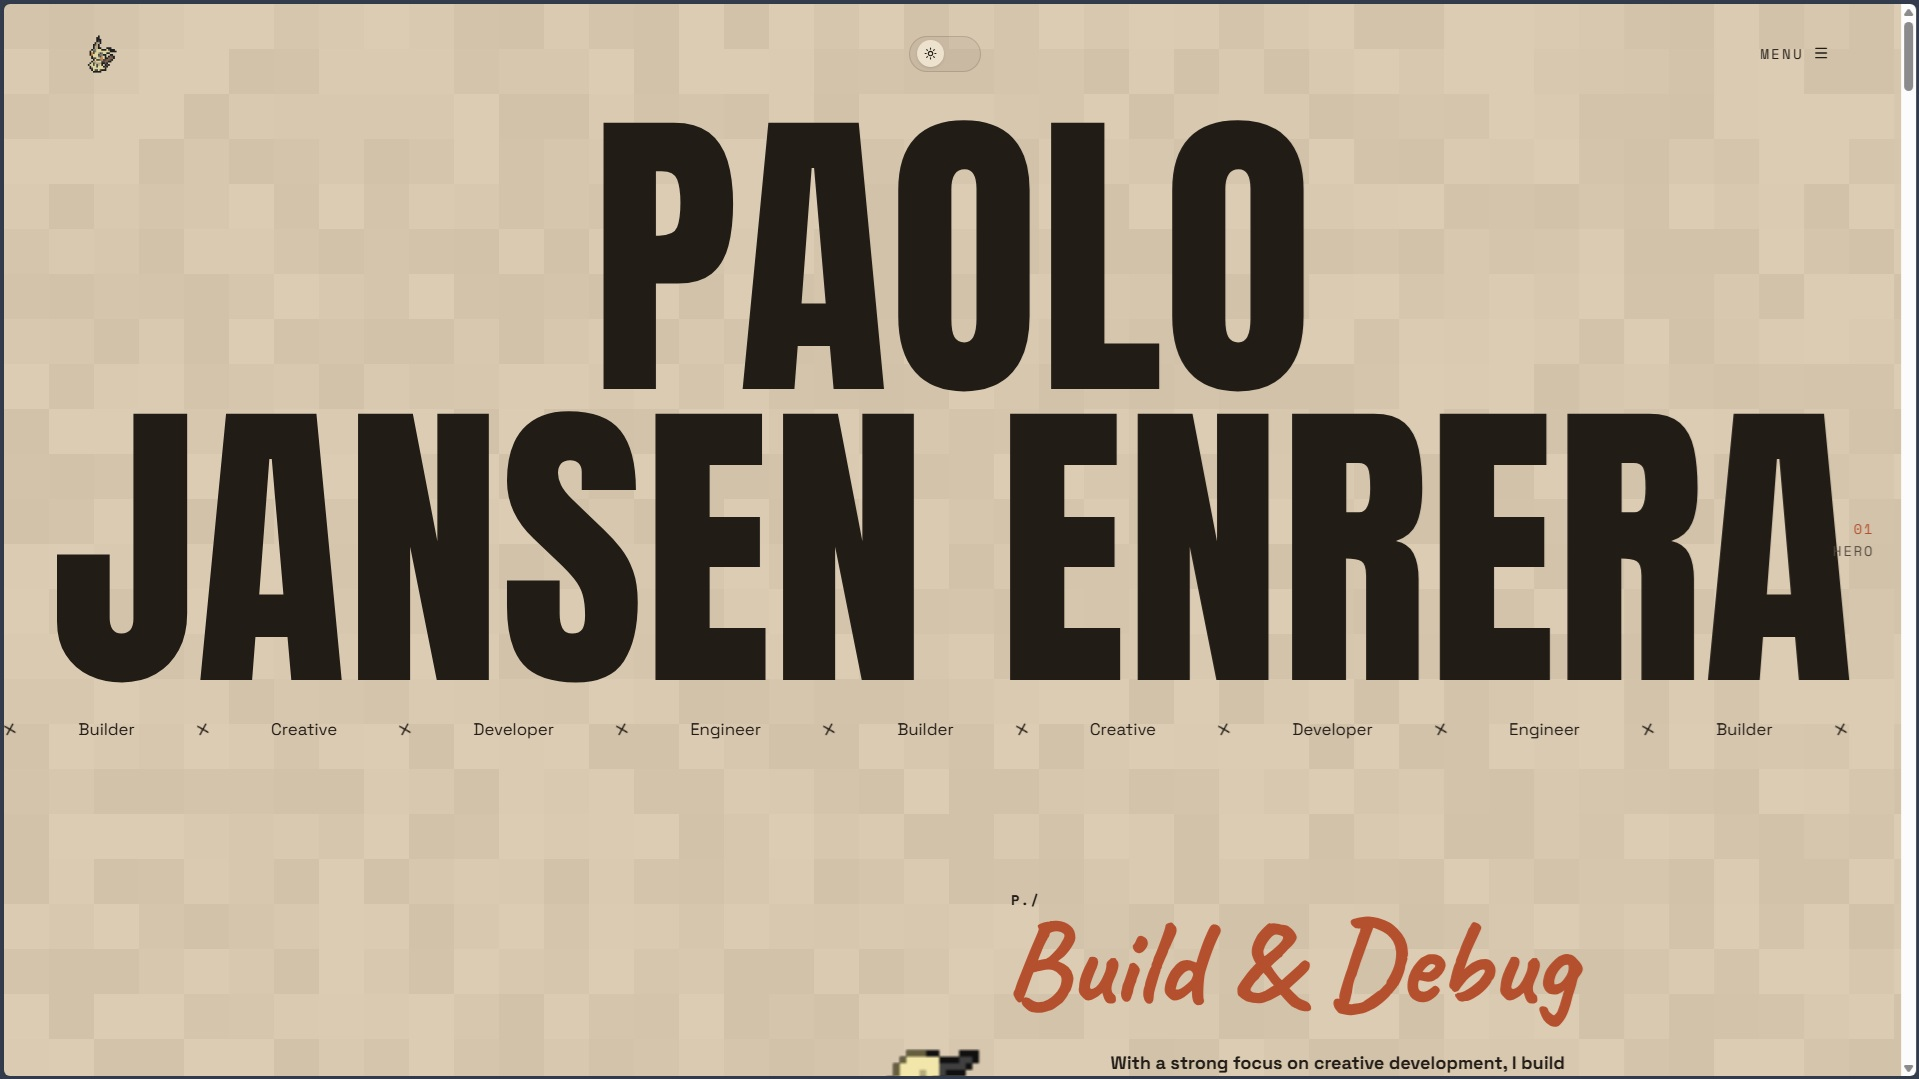
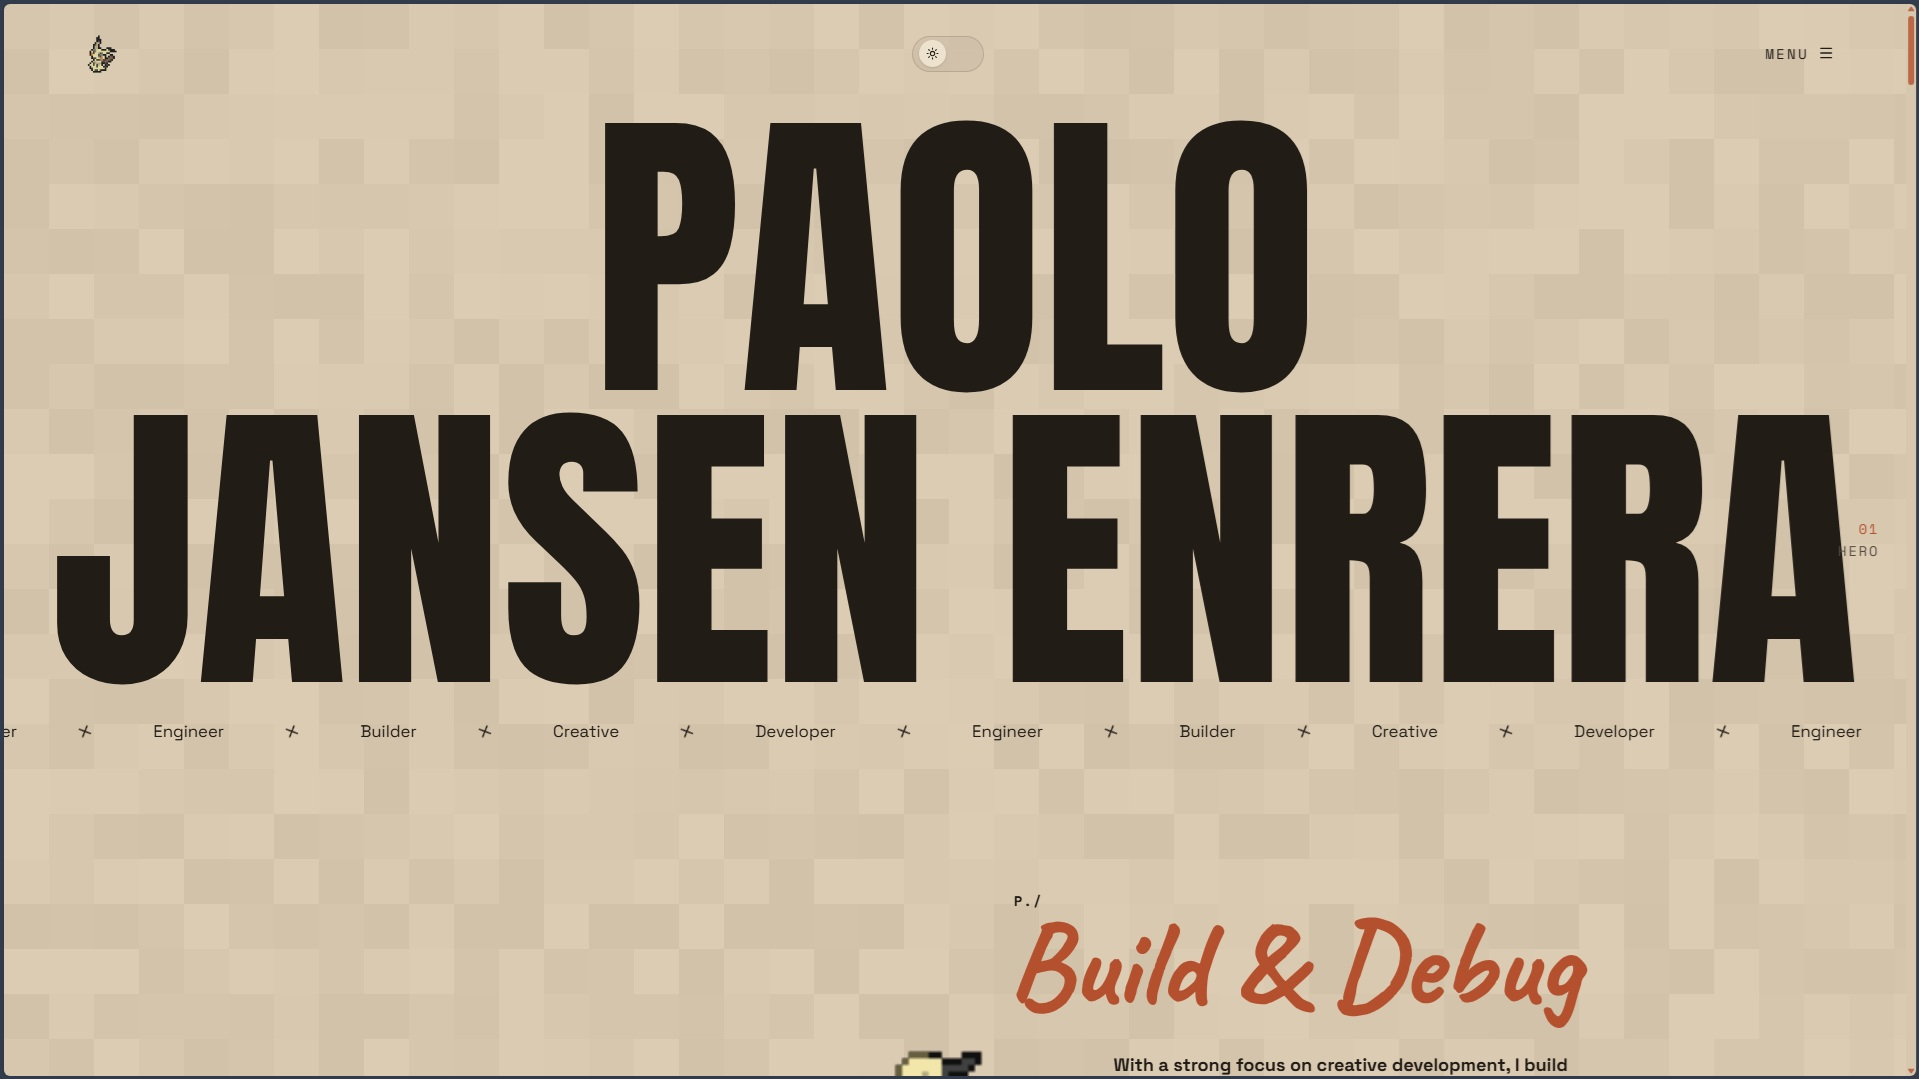
feat: styled scrollbar, curtain menu transition, contain-fit project modal images
- Custom scrollbar (thin, accent-colored thumb, transparent track) matching
  the jasminemaduafokwa.com reference
- NavOverlay: two-layer curtain reveal on menu open (accent flash then bg
  panel, dropping in from top-right); close now plays the exact reverse
  order (bg retreats first, accent last) instead of leaving link text
  hanging mid-close
- Menu link hover: straight accent strike-through + number/label gap widen,
  replacing the old thin underline
- Menu's Contact link now goes to the in-site /contact page instead of an
  external URL
- Project detail modal images now use object-contain and self-measure their
  aspect ratio on load, so the frame always hugs the real image with no
  cropping or leftover letterbox gap regardless of the source file's
  proportions (grid thumbnails keep object-cover)
- Swapped in updated Premium Portfolio.jpg

diff --git a/src/components/layout/NavOverlay.tsx b/src/components/layout/NavOverlay.tsx
@@ -19,6 +19,20 @@ interface NavOverlayProps {
 export function NavOverlay({ open, onClose, links }: NavOverlayProps) {
   const panelRef = useDialogBehavior(open, onClose);
 
+  const curtainEase = [0.76, 0, 0.24, 1] as const;
+  const rounded = { borderBottomLeftRadius: "40%", borderBottomRightRadius: "40%" };
+  const square = { borderBottomLeftRadius: "0%", borderBottomRightRadius: "0%" };
+  // Accent layer drops first, bg layer follows on top — closing reverses that order exactly:
+  // bg retreats first, accent retreats last.
+  const curtainAccent = {
+    closed: { scaleY: 0, ...rounded, transition: { duration: 0.5, ease: curtainEase, delay: 0.1 } },
+    open: { scaleY: 1, ...square, transition: { duration: 0.5, ease: curtainEase, delay: 0 } },
+  };
+  const curtainBg = {
+    closed: { scaleY: 0, ...rounded, transition: { duration: 0.5, ease: curtainEase, delay: 0 } },
+    open: { scaleY: 1, ...square, transition: { duration: 0.5, ease: curtainEase, delay: 0.1 } },
+  };
+
   return (
     <AnimatePresence>
       {open && (
@@ -28,11 +42,26 @@ export function NavOverlay({ open, onClose, links }: NavOverlayProps) {
           aria-modal="true"
           aria-label="Site navigation"
           tabIndex={-1}
-          initial={{ opacity: 0 }}
-          animate={{ opacity: 1 }}
-          exit={{ opacity: 0 }}
-          className="fixed inset-0 z-[60] flex flex-col bg-em-bg"
+          initial="closed"
+          animate="open"
+          exit="closed"
+          className="fixed inset-0 z-[60] flex flex-col overflow-hidden"
         >
+          {/* Curtain reveal: accent flash then bg panel drop in from the top-right;
+              closing plays the exact reverse order (bg retreats first, accent last). */}
+          <motion.div
+            aria-hidden
+            variants={curtainAccent}
+            style={{ transformOrigin: "top right" }}
+            className="absolute inset-0 bg-em-accent"
+          />
+          <motion.div
+            aria-hidden
+            variants={curtainBg}
+            style={{ transformOrigin: "top right" }}
+            className="absolute inset-0 bg-em-bg"
+          />
+
           <button
             type="button"
             aria-label="Close menu"
@@ -42,7 +71,11 @@ export function NavOverlay({ open, onClose, links }: NavOverlayProps) {
             <X size={26} />
           </button>
 
-          <nav className="flex flex-1 flex-col items-center justify-center gap-6">
+          <motion.nav
+            exit={{ opacity: 0, y: 16 }}
+            transition={{ duration: 0.2, ease: "easeIn" }}
+            className="flex flex-1 flex-col items-center justify-center gap-6"
+          >
             {links.map((link, i) => (
               <motion.a
                 key={link.href}
@@ -50,19 +83,25 @@ export function NavOverlay({ open, onClose, links }: NavOverlayProps) {
                 onClick={onClose}
                 initial={{ opacity: 0, y: 16 }}
                 animate={{ opacity: 1, y: 0 }}
-                transition={{ delay: 0.05 * i, duration: 0.4 }}
+                transition={{ delay: 0.4 + 0.05 * i, duration: 0.4 }}
                 className={cn(
-                  "font-display cursor-pointer text-5xl font-bold text-em-text transition-colors hover:text-em-accent md:text-7xl",
+                  "group flex cursor-pointer items-baseline gap-4 transition-[gap] duration-300 ease-out hover:gap-7",
                   i % 2 === 1 ? "md:translate-x-10" : "md:-translate-x-10"
                 )}
               >
-                <span className="mr-4 align-top font-mono text-base text-em-accent">
+                <span className="font-mono text-base text-em-accent">
                   {String(i + 1).padStart(2, "0")}
                 </span>
-                {link.label}
+                <span className="font-display relative text-5xl font-bold text-em-text transition-colors group-hover:text-em-accent md:text-7xl">
+                  {link.label}
+                  <span
+                    aria-hidden
+                    className="pointer-events-none absolute left-1/2 top-1/2 h-[6px] w-[110%] origin-center -translate-x-1/2 -translate-y-1/2 scale-x-0 rounded-full bg-em-accent transition-transform duration-500 ease-out group-hover:scale-x-100"
+                  />
+                </span>
               </motion.a>
             ))}
-          </nav>
+          </motion.nav>
         </motion.div>
       )}
     </AnimatePresence>

diff --git a/src/components/ui/ImagePlaceholder.tsx b/src/components/ui/ImagePlaceholder.tsx
@@ -1,3 +1,6 @@
+"use client";
+
+import { useState } from "react";
 import Image from "next/image";
 import { ImageIcon } from "lucide-react";
 import { cn } from "@/lib/utils";
@@ -8,6 +11,10 @@ interface ImagePlaceholderProps {
   aspectRatio?: string;
   label?: string;
   className?: string;
+  /** "cover" (default) crops to fill the box — used for grid thumbnails.
+   *  "contain" fits the whole image, resizing the box to the image's own
+   *  aspect ratio once it loads so there's no leftover letterbox gap. */
+  fit?: "cover" | "contain";
 }
 
 export function ImagePlaceholder({
@@ -16,11 +23,27 @@ export function ImagePlaceholder({
   aspectRatio = "16 / 10",
   label,
   className,
+  fit = "cover",
 }: ImagePlaceholderProps) {
+  const [naturalRatio, setNaturalRatio] = useState<string | null>(null);
+
   if (imageSrc) {
+    const ratio = fit === "contain" && naturalRatio ? naturalRatio : aspectRatio;
     return (
-      <div className={cn("relative overflow-hidden", className)} style={{ aspectRatio }}>
-        <Image src={imageSrc} alt={alt} fill className="object-cover" />
+      <div className={cn("relative overflow-hidden", className)} style={{ aspectRatio: ratio }}>
+        <Image
+          src={imageSrc}
+          alt={alt}
+          fill
+          className={fit === "contain" ? "object-contain" : "object-cover"}
+          onLoad={(e) => {
+            if (fit !== "contain") return;
+            const { naturalWidth, naturalHeight } = e.currentTarget;
+            if (naturalWidth && naturalHeight) {
+              setNaturalRatio(`${naturalWidth} / ${naturalHeight}`);
+            }
+          }}
+        />
       </div>
     );
   }

diff --git a/src/app/globals.css b/src/app/globals.css
@@ -116,6 +116,7 @@
   --em-invert-bg: #17130f;
   --em-invert-text: #f3ede2;
   --em-invert-muted: #b5aa98;
+  --em-scrollbar: var(--em-accent);
 }
 
 .dark {
@@ -153,6 +154,7 @@
   --em-bg: var(--em-invert-bg);
   --em-text: var(--em-invert-text);
   --em-text-muted: var(--em-invert-muted);
+  --em-scrollbar: var(--em-invert-text);
 }
 
 @layer base {
@@ -172,6 +174,21 @@
   .font-display {
     font-family: var(--font-display), system-ui, sans-serif;
   }
+}
+
+html {
+  scrollbar-width: thin;
+  scrollbar-color: color-mix(in srgb, var(--em-scrollbar) 80%, transparent) transparent;
+}
+
+::-webkit-scrollbar {
+  width: 3px;
+}
+::-webkit-scrollbar-track {
+  background-color: transparent;
+}
+::-webkit-scrollbar-thumb {
+  background-color: color-mix(in srgb, var(--em-scrollbar) 80%, transparent);
 }
 
 .bg-grain {

diff --git a/src/components/sections/PortfolioGallerySection.tsx b/src/components/sections/PortfolioGallerySection.tsx
@@ -220,7 +220,8 @@ export default function PortfolioGallerySection() {
                 alt={`Screenshot of ${selectedProject.title}`}
                 aspectRatio={selectedProject.aspectRatio}
                 label="Project image"
-                className="mt-8 rounded-sm"
+                fit="contain"
+                className="mt-8 rounded-sm bg-em-invert-text/5"
               />
 
               <h2

diff --git a/src/components/layout/Navbar.tsx b/src/components/layout/Navbar.tsx
@@ -13,7 +13,7 @@ const navLinks = [
   { label: "Work", href: "/#work" },
   { label: "Skills", href: "/#skills" },
   { label: "Process", href: "/#process" },
-  { label: "Contact", href: "/#contact" },
+  { label: "Contact", href: "/contact" },
 ];
 
 export function Navbar() {
